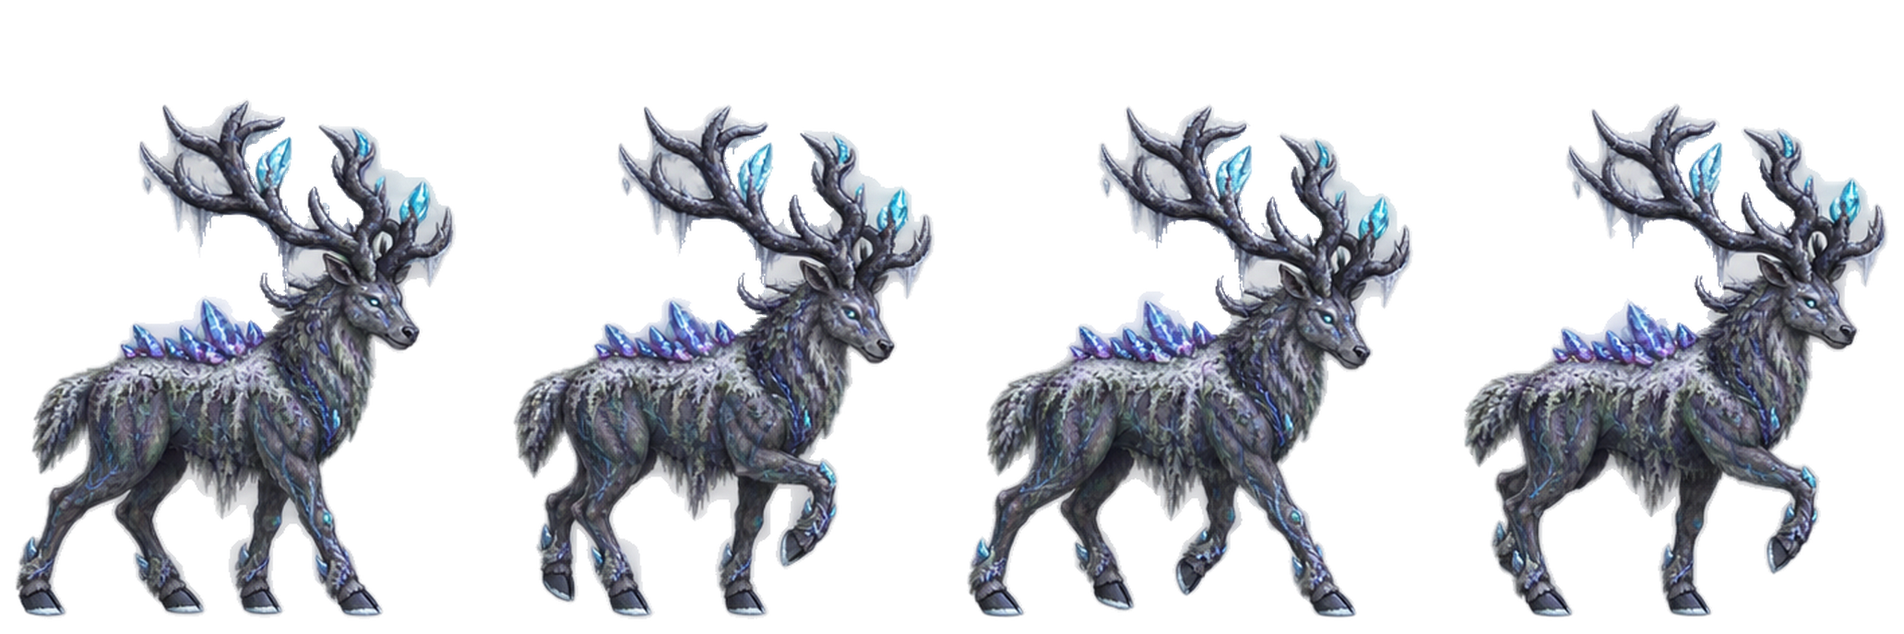
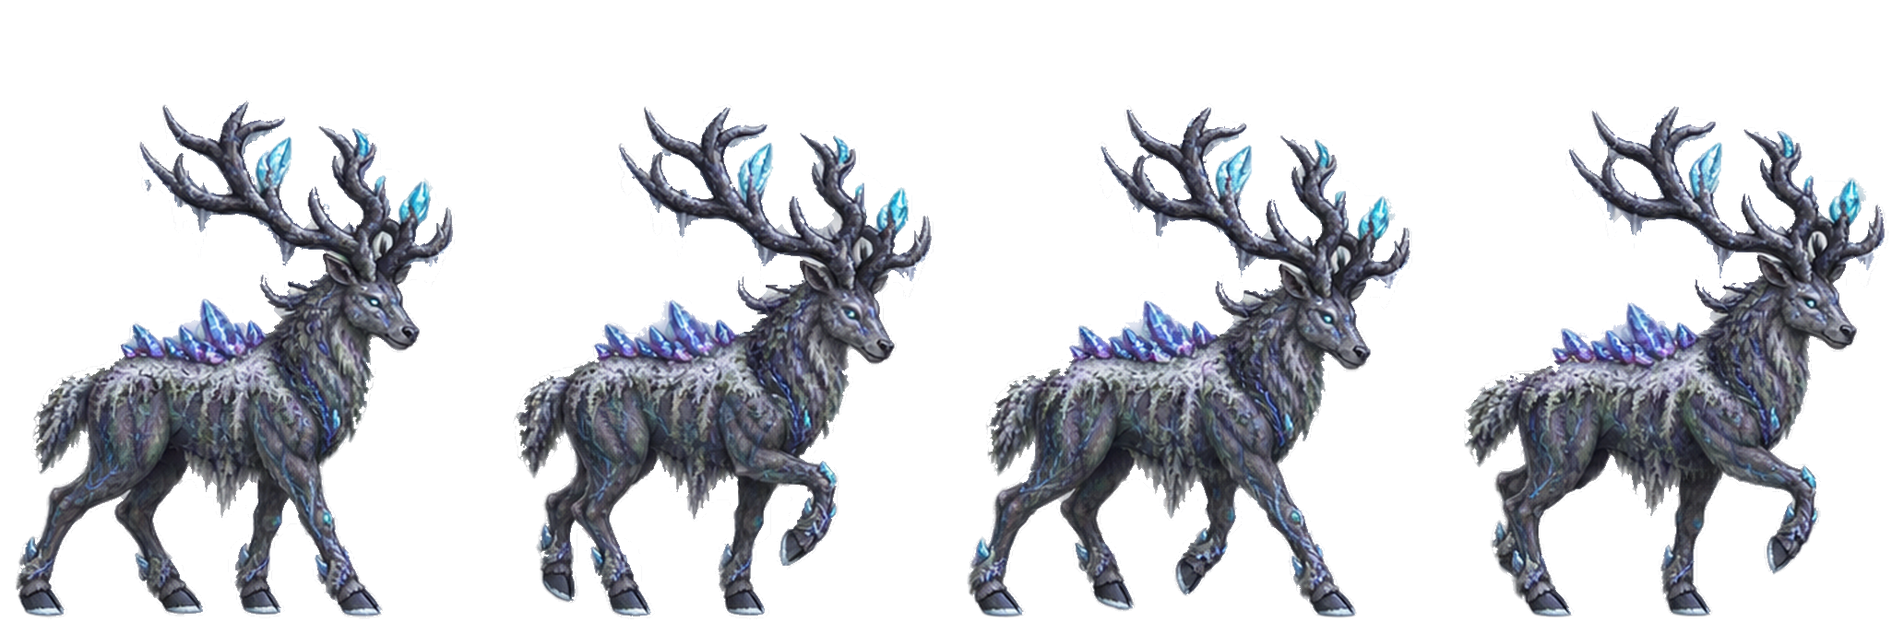
Rounds 352-354: clean enemy sheets and a sprite audit; Clockwarden, Chronarch and Reactor Mauler animated (#129)
* Round 352: clean the Rimeglass Stag and Drowned Heron sheets; sprite audit tool and test

Claude-Session: https://claude.ai/code/session_01XB2RMCaJ1aVVtBjSNk3FhS

* Round 353: the Clockwarden and the Chronarch get their own sheets

Claude-Session: https://claude.ai/code/session_01XB2RMCaJ1aVVtBjSNk3FhS

* Round 354: the Reactor Mauler walks

Claude-Session: https://claude.ai/code/session_01XB2RMCaJ1aVVtBjSNk3FhS

* Round 353: solaris-roster test expects the Chronarch's own sheet

Claude-Session: https://claude.ai/code/session_01XB2RMCaJ1aVVtBjSNk3FhS

* Round 354: drawing Neon Aftermath never writes to the save (seed-stable save round-trip)

Claude-Session: https://claude.ai/code/session_01XB2RMCaJ1aVVtBjSNk3FhS

---------

diff --git a/assets/city-nights.js b/assets/city-nights.js
@@ -29,6 +29,12 @@ function cityNights() {
   n.vault = !!n.vault; n.board = !!n.board;
   return state.cityNights = n;
 }
+// Round 354: drawing reads without writing, so a save looks the same before and after a reload.
+function cityNightsPeek() {
+  if (!state) return null;
+  const n = state.cityNights && typeof state.cityNights === 'object' ? state.cityNights : {};
+  return { caught: Array.isArray(n.caught) ? n.caught : [], breakers: Array.isArray(n.breakers) ? n.breakers : [], vault: !!n.vault, board: !!n.board };
+}
 const cnFrac = k => typeof regionDistanceFrac === 'function' ? regionDistanceFrac(k) : .5;
 // One room in each third of the city (near, middle, far from the Refuge), picked with the journey's seed.
 function cnPickByThirds(keys, salt) {
@@ -65,7 +71,7 @@ function cityWantedFor(spawn) {
   const list = cityWantedRooms(), key = spawn.uid.replace(/^city:/, '').replace(/:\d+$/, ''), i = list.indexOf(key);
   if (i < 0 || !CITY_WANTED[i]) return null;
   const first = roomSpawnsBeforeNights(key).find(s => !s.boss); if (!first || first.uid !== spawn.uid) return null;
-  if (cityNights().caught.includes(CITY_WANTED[i].id) || !wantedContract(CITY_WANTED[i].id)) return null; // Round 347: only once its contract is taken
+  if (cityNightsPeek().caught.includes(CITY_WANTED[i].id) || !wantedContract(CITY_WANTED[i].id)) return null; // Round 347: only once its contract is taken
   return { ...CITY_WANTED[i], room: key };
 }
 const roomSpawnsBeforeNights = roomSpawns;
@@ -117,7 +123,7 @@ const poiNodeBeforeNights = poiNode;
 poiNode = function (p) {
   const node = poiNodeBeforeNights.apply(this, arguments);
   if (!p || !node || !node.classList || !['breaker', 'vault', 'wantedBoard'].includes(p.type)) return node; // Round 350: other worlds' objects never touch the city's save entry
-  const n = cityNights();
+  const n = cityNightsPeek();
   if (p.type === 'breaker' && n && n.breakers.includes(p.index)) { node.classList.add('used'); node.dataset.name = 'Breaker Box · on'; }
   if (p.type === 'vault') { const open = n && n.breakers.length >= 3; node.querySelector('.poi-glyph').textContent = n.vault ? '🔓' : open ? '🔓' : '🔒'; node.dataset.name = 'Afterlight Vault · ' + (n.vault ? 'emptied' : open ? 'powered' : n.breakers.length + '/3 power'); if (n.vault) node.classList.add('used'); }
   if (p.type === 'wantedBoard') { const left = CITY_WANTED.filter(w => !n.caught.includes(w.id)).length, open = wantedAvailable().length; node.dataset.name = 'Wanted Board' + (open ? ' · ' + open + ' contract' + (open > 1 ? 's' : '') : left ? ' · ' + left + ' at large' : ' · all caught');
@@ -144,7 +150,7 @@ roomTag = function (key) {
   const tag = roomTagBeforeNights.apply(this, arguments);
   if (tag || activeRegion !== 'city' || !state) return tag;
   const i = cityWantedRooms().indexOf(key);
-  if (i >= 0 && !cityNights().caught.includes(CITY_WANTED[i].id) && (typeof areaSeen !== 'function' || areaSeen(key))) return { color: '#ff6b5a', label: '☠ ' + CITY_WANTED[i].name };
+  if (i >= 0 && !cityNightsPeek().caught.includes(CITY_WANTED[i].id) && (typeof areaSeen !== 'function' || areaSeen(key))) return { color: '#ff6b5a', label: '☠ ' + CITY_WANTED[i].name };
   return tag;
 };
 // --- Interaction ---
@@ -153,12 +159,12 @@ function cnMenu(title, body, buttons) { poiMenu(title, body, buttons.concat([{ i
 // from the board. A taken contract joins the Quests screen (☠ Wanted, with where the rogue was last seen), and only then
 // does the rogue walk the streets (☠, tougher). Bringing it in completes the contract and pays its reward.
 function wantedContractId(id) { return 'city:wanted:' + id; }
-function wantedContract(id) { const q = typeof ensureQuests === 'function' ? ensureQuests() : null; return q && q.taken ? q.taken[wantedContractId(id)] || null : null; }
+function wantedContract(id) { const q = state && state.quests; return q && q.taken && typeof q.taken === 'object' ? q.taken[wantedContractId(id)] || null : null; } // read-only (Round 354)
 function wantedWhere(i) { const key = cityWantedRooms()[i]; return key && rooms[key] ? rooms[key].name : 'somewhere in the city'; }
 function wantedRewardText(w) { return '◇' + w.shards + ' + ' + w.xp + ' XP' + (w.crystal ? ' + an Upgrade Crystal' : ''); }
-function wantedAvailable() { const n = cityNights(); return CITY_WANTED.filter(w => !n.caught.includes(w.id) && !wantedContract(w.id)); }
+function wantedAvailable() { const n = cityNightsPeek(); return CITY_WANTED.filter(w => !n.caught.includes(w.id) && !wantedContract(w.id)); }
 function takeWantedContract(i) {
-  const w = CITY_WANTED[i], n = cityNights(); if (!w || n.caught.includes(w.id) || wantedContract(w.id)) return null;
+  const w = CITY_WANTED[i], n = cityNightsPeek(); if (!w || n.caught.includes(w.id) || wantedContract(w.id)) return null;
   const q = { id: wantedContractId(w.id), kind: 'wanted', world: 'city', target: 'wanted:' + w.id, need: 1, have: 0, xp: w.xp,
     text: 'Bring in ' + w.name + ' (last seen: ' + wantedWhere(i) + ')', rewardText: wantedRewardText(w) };
   ensureQuests().taken[q.id] = q; save(); toast('☠ Contract taken: ' + w.name + '. Look for the ☠ in ' + wantedWhere(i) + '.');

diff --git a/index.html b/index.html
@@ -97,7 +97,7 @@
 .map-surface{position:absolute;left:50%;top:50%;width:880px;height:560px;transform-origin:center}.map-surface .map-room{width:102px;min-height:54px;font-size:10px}.map-surface .map-room .map-status{display:block}.minimap-grid{width:126px;height:82px}
 .defeat-summary{max-width:680px;margin:auto}.defeat-summary h2{color:#ffb5ac}.defeat-loss{padding:16px;margin:16px 0;border:1px solid #d7766d;border-radius:10px;background:#351d25}.defeat-card{display:flex;gap:16px;align-items:center}.defeat-card img{width:88px;height:88px;object-fit:cover;border-radius:8px}.defeat-card p{font:13px/1.5 system-ui;margin:6px 0}.defeat-summary button{width:100%;min-height:48px}.defeat-summary .panel p{line-height:1.6}
 .copies-overlay{z-index:120}.copies-modal{width:min(640px,96vw)}.copies-list{display:flex;flex-direction:column;gap:8px;margin:10px 0}.copy-row{display:flex;align-items:center;gap:12px;padding:8px 10px;border:1px solid #4d6a80;border-radius:10px;background:#0c1624}.copy-row.in-deck{border-color:#64dce7;box-shadow:0 0 0 1px #64dce755}.copy-row.soul{background:linear-gradient(90deg,#1d1638,#0c1624)}.copy-art{width:54px;height:54px;object-fit:cover;border-radius:6px;border:1px solid #8cb8bf55;flex:none}.copy-info{flex:1;display:flex;flex-direction:column;gap:4px;min-width:0}.copy-info b{font:700 13px system-ui}.copy-info small{font:11px system-ui;color:#9fb6c8}.copy-mastery{display:block;height:6px;border-radius:3px;background:#1e2f40;overflow:hidden}.copy-mastery i{display:block;height:100%;background:linear-gradient(90deg,#64dce7,#f2c94c)}.copy-tag{align-self:flex-start;font:700 10px system-ui;color:#0b1422;background:#64dce7;border-radius:999px;padding:1px 8px}.copy-actions{display:flex;flex-direction:column;gap:5px;flex:none}.copy-actions button{font-size:12px;padding:5px 9px}@media(max-width:560px){.copy-row{flex-wrap:wrap}.copy-actions{flex-direction:row;width:100%}}button.stack-count-badge{cursor:pointer}.stack-count-badge{position:absolute;right:-8px;top:-8px;z-index:4;min-width:30px;height:30px;padding:0 6px;border-radius:999px;display:grid;place-items:center;font:800 14px system-ui;color:#1b1206;background:radial-gradient(circle at 35% 30%,#fff3c4,#f2c94c 60%,#b27d10);border:2px solid #fff4c8;box-shadow:0 2px 8px #000a}.card-wrap{position:relative}.stack-info{margin:4px 2px 0;font:11px system-ui;color:#b9c9d6}.deck-slot .stack-count{color:#f2c94c}
-</style><link rel="stylesheet" href="assets/mobile-crystals.css?v=round185"><link rel="stylesheet" href="assets/talents.css?v=round185"><link rel="stylesheet" href="assets/aether-deck.css?v=round185"><link rel="stylesheet" href="assets/battle-hud.css?v=round200"></head><body><link rel="stylesheet" href="assets/layout-polish.css?v=round348"><link rel="stylesheet" href="assets/enemy-sizes.css?v=round351">
+</style><link rel="stylesheet" href="assets/mobile-crystals.css?v=round185"><link rel="stylesheet" href="assets/talents.css?v=round185"><link rel="stylesheet" href="assets/aether-deck.css?v=round185"><link rel="stylesheet" href="assets/battle-hud.css?v=round200"></head><body><link rel="stylesheet" href="assets/layout-polish.css?v=round348"><link rel="stylesheet" href="assets/enemy-sizes.css?v=round354">
 <div id="game">
  <div id="world"></div>
  <div id="hud"></div>
@@ -553,7 +553,7 @@ if(localStorage.getItem(SAVE_KEY))$('resumeBtn').classList.remove('hidden');
 addEventListener('resize',()=>{fitWorld();fitMap();renderTalentConnectors()});fitWorld();
 requestAnimationFrame(loop);
 </script>
-<script src="assets/elaris-wildlife.js?v=round349"></script>
+<script src="assets/elaris-wildlife.js?v=round354"></script>
 <script src="assets/solaris-data.js?v=round232"></script>
 <script src="assets/expansion.js?v=round340"></script>
 <script src="assets/encounter-depth.js?v=round280"></script>
@@ -571,7 +571,7 @@ requestAnimationFrame(loop);
 <script src="assets/exploration.js?v=round290"></script>
 <script src="assets/neon-world.js?v=round339"></script>
 <script src="assets/solaris.js?v=round197"></script>
-<script src="assets/chronospire.js?v=round349"></script>
+<script src="assets/chronospire.js?v=round353"></script>
 <script src="assets/sky-data.js?v=round235"></script>
 <script src="assets/wilds-data.js?v=round232"></script>
 <script src="assets/vespera-data.js?v=round232"></script>
@@ -596,7 +596,7 @@ requestAnimationFrame(loop);
 <script src="assets/npc-greetings.js?v=round281"></script>
 <script src="assets/bounty-plan.js?v=round286"></script>
 <script src="assets/quests.js?v=round347"></script>
-<script src="assets/city-nights.js?v=round350"></script>
+<script src="assets/city-nights.js?v=round354"></script>
 <script src="assets/world-relays.js?v=round350"></script>
 <script src="assets/touch-controls.js?v=round275"></script>
 <script src="assets/map-terrain.js?v=round343"></script>

diff --git a/assets/elaris-wildlife.js b/assets/elaris-wildlife.js
@@ -31,6 +31,8 @@ const WILDLIFE_ART={
  tempestColossus:{name:'The Tempest Colossus',sheet:'vespera/tempest-colossus',cycle:'.8s',big:true},
  gearhound:{name:'Gearhound',sheet:'chronospire/gearhound',cycle:'.8s'},
  tickMoth:{name:'Tick Moth',sheet:'chronospire/tick-moth',cycle:'.8s'},
+ clockwardenArt:{name:'The Clockwarden',sheet:'chronospire/clockwarden',cycle:'.8s'}, // Round 353: Chronospire's mini-boss hovers on its own sheet (drawn from the Crown Observer)
+ chronarchArt:{name:'The Chronarch',sheet:'chronospire/chronarch',cycle:'.8s',big:true}, // Round 353: Chronospire's boss walks on its own sheet (drawn from the Bloom Tyrant)
  cogMauler:{name:'Cog Mauler',sheet:'chronospire/cog-mauler',cycle:'.8s'}, // Round 349: Chronospire's own mauler (eight-frame walk drawn from the Reactor Mauler)
  pendulumStag:{name:'Pendulum Stag',sheet:'chronospire/pendulum-stag',cycle:'.8s'}, // Round 346: Chronospire's own stag (eight-frame walk drawn from the Blight Antler)
  hourglassHeron:{name:'Hourglass Heron',sheet:'chronospire/hourglass-heron',cycle:'.8s'}, // Round 346: Chronospire's own heron (eight-frame walk drawn from the Drowned Heron) // Round 342: Chronospire's own clockwork moth (an eight-frame flight drawn from the Storm Moth) // Round 341: Chronospire's own clockwork fox (an eight-frame walk drawn from the Cinder Fox) // Round 340: Vespera's boss in its own storm form (an eight-frame walk drawn from the Bloom Tyrant) // Round 339: Vespera's mini-boss in its own storm armor (an eight-frame walk drawn from the Briar Sentinel) // Round 338: Vespera's own storm mauler (an eight-frame walk drawn from the Reactor Mauler) // Round 336: Vespera's own storm wisp (an eight-frame glide drawn from the Data Wisp) // Round 335: Vespera's own frost stag (an eight-frame walk drawn from the Blight Antler) // Round 334: Vespera's own storm wraith (an eight-frame glide drawn from the Phase Shade) // Round 333: Vespera's own storm-coast heron (an eight-frame walk drawn from the Drowned Heron) // Round 332: Vespera's own storm moth (an eight-frame flight drawn from the Storm Moth), no longer the recolored Storm Moth // Round 305: Vespera's own storm fox (the owner's eight-frame walk), no longer the recolored Cinder Fox
@@ -46,8 +48,10 @@ const WILDLIFE_ART={
  burrower:{name:'Tunnel Borehound',sheet:'city/tunnel-borehound',cycle:'.8s'},
  // Round 264: the Phase Shade glides (four of the owner's eight frames; no battle poses yet).
  shade:{name:'Phase Shade',sheet:'city/phase-shade',cycle:'.8s'},
- // Round 266: the Crown Observer hovers (four of the owner's eight frames; no battle poses yet). The Clockwarden borrows it.
+ // Round 266: the Crown Observer hovers (four of the owner's eight frames; no battle poses yet).
  crownEye:{name:'Crown Observer',sheet:'city/crown-observer',cycle:'.8s'},
+ // Round 354: the Reactor Mauler walks (four of the owner's eight frames; it had a single still picture, clipped at both sides).
+ forgeBeast:{name:'Reactor Mauler',sheet:'city/reactor-mauler',cycle:'.8s'},
  // Round 267: Neon Aftermath's final boss, the Thorn Warden, strides (four of the owner's eight side-walk frames).
  thornWarden:{name:'Thorn Warden',sheet:'city/thorn-warden',cycle:'1.1s'},
  // Round 268: the mini-boss Lunar Enforcer glides (four of the owner's eight frames; no battle poses yet).
@@ -60,7 +64,7 @@ const cityMonsterArt=monsterArt;
 // Round 196: a sheet name with a folder ('sky/zenith-roc') is read from assets/monsters/<folder>/;
 // big:true draws it in the larger boss box.
 // Round 200: bump SPRITE_VERSION when sheets are re-cut, so browsers fetch the new images.
-const SPRITE_VERSION='349';
+const SPRITE_VERSION='354';
 function wildlifeSheetUrl(sheet){return 'assets/monsters/'+(sheet.includes('/')?sheet:'elaris/'+sheet)+'.png?v='+SPRITE_VERSION}
 monsterArt=function(id){const animal=ELARIS_WILDLIFE[id]||WILDLIFE_ART[id];if(!animal)return cityMonsterArt(id);return '<span class="monster-sprite wildlife-sprite'+(animal.big?' bloom-tyrant':'')+'" role="img" aria-label="'+animal.name+'" style="background-image:url('+wildlifeSheetUrl(animal.sheet)+');--wildlife-cycle:'+animal.cycle+'"></span>'};
 // Round 249: a boss node's sprite box was square (142px, sized for Neon Aftermath's boss pictures), which

diff --git a/assets/enemy-sizes.css b/assets/enemy-sizes.css
@@ -1,4 +1,6 @@
 /* Generated by tools/enemy_sizes.py (Round 351): each creature sheet scaled on the map toward one painted size. */
+#world .enemy-node .wildlife-sprite[style*="/chronospire/chronarch.png"]{--enemy-fit:0.861} /* painted 0.639 */
+#world .enemy-node .wildlife-sprite[style*="/chronospire/clockwarden.png"]{--enemy-fit:1.117} /* painted 0.492 */
 #world .enemy-node .wildlife-sprite[style*="/chronospire/gearhound.png"]{--enemy-fit:1.141} /* painted 0.482 */
 #world .enemy-node .wildlife-sprite[style*="/chronospire/tick-moth.png"]{--enemy-fit:1.365} /* painted 0.403 */
 #world .enemy-node .wildlife-sprite[style*="/city/briar-sentinel-walk.png"]{--enemy-fit:0.874} /* painted 0.630 */
@@ -8,13 +10,14 @@
 #world .enemy-node .wildlife-sprite[style*="/city/ember-jackal.png"]{--enemy-fit:1.11} /* painted 0.495 */
 #world .enemy-node .wildlife-sprite[style*="/city/lunar-enforcer.png"]{--enemy-fit:1.021} /* painted 0.539 */
 #world .enemy-node .wildlife-sprite[style*="/city/phase-shade.png"]{--enemy-fit:1.05} /* painted 0.524 */
+#world .enemy-node .wildlife-sprite[style*="/city/reactor-mauler.png"]{--enemy-fit:0.85} /* painted 0.656 */
 #world .enemy-node .wildlife-sprite[style*="/city/thorn-warden.png"]{--enemy-fit:0.853} /* painted 0.645 */
 #world .enemy-node .wildlife-sprite[style*="/city/tunnel-borehound.png"]{--enemy-fit:1.155} /* painted 0.476 */
 #world .enemy-node .wildlife-sprite[style*="/elaris/blight-antler.png"]{--enemy-fit:0.981} /* painted 0.560 */
 #world .enemy-node .wildlife-sprite[style*="/elaris/bloom-tyrant.png"]{--enemy-fit:0.898} /* painted 0.613 */
 #world .enemy-node .wildlife-sprite[style*="/elaris/cinder-fox.png"]{--enemy-fit:1.083} /* painted 0.508 */
 #world .enemy-node .wildlife-sprite[style*="/elaris/cistern-warden.png"]{--enemy-fit:0.935} /* painted 0.588 */
-#world .enemy-node .wildlife-sprite[style*="/elaris/drowned-heron.png"]{--enemy-fit:1.095} /* painted 0.502 */
+#world .enemy-node .wildlife-sprite[style*="/elaris/drowned-heron.png"]{--enemy-fit:1.096} /* painted 0.502 */
 #world .enemy-node .wildlife-sprite[style*="/elaris/dune-scorpion.png"]{--enemy-fit:1.1} /* painted 0.500 */
 #world .enemy-node .wildlife-sprite[style*="/elaris/dust-devil.png"]{--enemy-fit:1.11} /* painted 0.495 */
 #world .enemy-node .wildlife-sprite[style*="/elaris/mirage-ibis.png"]{--enemy-fit:1.043} /* painted 0.527 */
@@ -35,7 +38,7 @@
 #world .enemy-node .wildlife-sprite[style*="/vespera/brinewing-heron.png"]{--enemy-fit:1.205} /* painted 0.457 */
 #world .enemy-node .wildlife-sprite[style*="/vespera/ion-shade.png"]{--enemy-fit:1.097} /* painted 0.502 */
 #world .enemy-node .wildlife-sprite[style*="/vespera/prism-thornling.png"]{--enemy-fit:0.977} /* painted 0.563 */
-#world .enemy-node .wildlife-sprite[style*="/vespera/rimeglass-stag.png"]{--enemy-fit:0.95} /* painted 0.579 */
+#world .enemy-node .wildlife-sprite[style*="/vespera/rimeglass-stag.png"]{--enemy-fit:1.015} /* painted 0.542 */
 #world .enemy-node .wildlife-sprite[style*="/vespera/static-fox.png"]{--enemy-fit:1.138} /* painted 0.483 */
 #world .enemy-node .wildlife-sprite[style*="/vespera/tempest-colossus.png"]{--enemy-fit:1.119} /* painted 0.492 */
 #world .enemy-node .wildlife-sprite[style*="/vespera/tempest-moth.png"]{--enemy-fit:1.12} /* painted 0.491 */

diff --git a/assets/chronospire.js b/assets/chronospire.js
@@ -22,9 +22,9 @@ const CHRONO_ENEMIES = {
   chronoStag:   { name: 'Pendulum Stag', icon: '◆', hp: 58, attack: 11, armor: 2, element: 'earth', art: 'pendulumStag', tint: 'none' },
   chronoWisp:   { name: 'Rust Wisp', icon: '✧', hp: 60, attack: 11, armor: 2, element: 'water', art: 'cryptWisp', tint: CHRONO_TINT },
   chronoMauler: { name: 'Cog Mauler', icon: '♨', hp: 62, attack: 12, armor: 2, element: 'fire', art: 'cogMauler', tint: 'none' },
-  clockwarden:  { name: 'The Clockwarden', icon: '🕰', hp: 90, attack: 12, armor: 4, boss: true, miniBoss: true, element: 'earth', art: 'crownEye', tint: CHRONO_TINT },
+  clockwarden:  { name: 'The Clockwarden', icon: '🕰', hp: 90, attack: 12, armor: 4, boss: true, miniBoss: true, element: 'earth', art: 'clockwardenArt', tint: 'none' },
   paradoxTwin:  { name: 'The Paradox Twin', icon: '♊', hp: 86, attack: 13, armor: 3, boss: true, miniBoss: true, element: 'air', art: 'shade', tint: 'sepia(.6) saturate(2) hue-rotate(160deg) brightness(1.1)' },
-  chronarch:    { name: 'The Chronarch', icon: '⌛', hp: 160, attack: 12, armor: 3, boss: true, element: 'water', shift: ['water', 'fire'], shiftEvery: 4, art: 'forestTyrant', tint: CHRONO_TINT }
+  chronarch:    { name: 'The Chronarch', icon: '⌛', hp: 160, attack: 12, armor: 3, boss: true, element: 'water', shift: ['water', 'fire'], shiftEvery: 4, art: 'chronarchArt', tint: 'none' }
 };
 Object.assign(enemies, CHRONO_ENEMIES);
 Object.assign(BALANCE.perEnemy, { clockwarden: { hp: 1.29 }, paradoxTwin: { hp: 1.33 }, chronarch: { hp: 0.693 }, chronoMauler: { hp: .88 } }); // Round 177: tuned as world 6; Round 181: after the tile rebuild; Round 183: with gear worn; Round 226: after ⚔ Pressure

diff --git a/tools/sprite_audit.py b/tools/sprite_audit.py
@@ -1,0 +1,77 @@
+# Round 352 (owner: "check all enemies to make sure their animations are clean and there are no artifacts").
+# Checks every four-frame creature sheet in assets/monsters for:
+#   - stray fragments: small pieces near a frame's side edge, apart from the creature (bits of a neighbouring frame);
+#   - art touching a frame edge (it would be clipped, or bleed into the next frame);
+#   - keying fringe: green or magenta tinted see-through edge pixels;
+#   - pale matte: smooth, unsaturated light patches of leftover background, 600px or more, touching the transparency.
+# Usage: python3 tools/sprite_audit.py   (prints one line per problem; exit code 1 if any)
+# Deliberate effects are listed in ALLOW (orbiting pebbles, steam puffs, a mirage fringe).
+import glob, os, sys
+import numpy as np
+from PIL import Image
+from scipy import ndimage
+
+ROOT = os.path.join(os.path.dirname(os.path.abspath(__file__)), '..')
+ALLOW = {
+    ('elaris/dust-devil.png', 'fragment'),       # pebbles orbiting the whirlwind
+    ('elaris/cistern-warden.png', 'fragment'),   # steam puffs from its valves
+    ('elaris/bloom-tyrant.png', 'fragment'),     # a 3px petal
+    ('elaris/bloom-tyrant.png', 'fringe'),       # violet blossoms and green leaves at its edges
+    ('elaris/blight-antler.png', 'fringe'),      # green moss and crystals along its back
+    ('elaris/mirage-ibis.png', 'fringe'),        # its deliberate pink mirage fringe (Round 270)
+}
+
+def frames(path):
+    im = Image.open(path); W, H = im.size
+    if abs(W / 4 - H * 0.75) > H * 0.05:
+        return None
+    a = np.array(im.convert('RGBA')).astype(int); fw = W // 4
+    return [a[:, i * fw:(i + 1) * fw] for i in range(4)]
+
+def audit(path):
+    fr = frames(path)
+    if fr is None:
+        return []
+    out = []
+    for i, f in enumerate(fr):
+        al = f[..., 3]; h, w = al.shape
+        lab, n = ndimage.label(al > 30, structure=np.ones((3, 3)))
+        if not n:
+            out.append(('empty', 'frame %d is empty' % i)); continue
+        sz = ndimage.sum(np.ones_like(al), lab, range(1, n + 1)); main = lab == (np.argmax(sz) + 1)
+        dist = ndimage.distance_transform_edt(~main)
+        for j, s in enumerate(sz):
+            if s > sz.max() * 0.05:
+                continue
+            ys, xs = np.nonzero(lab == j + 1)
+            if (xs.min() < w * 0.07 or xs.max() > w * 0.93) and dist[ys, xs].min() > 12:
+                out.append(('fragment', 'frame %d: %dpx piece at x %d-%d, apart from the creature' % (i, s, xs.min(), xs.max())))
+        e = np.concatenate([al[0], al[-1], al[:, 0], al[:, -1]])
+        if (e > 40).sum() > 3:
+            out.append(('edge', 'frame %d touches its edge (%d px)' % (i, (e > 40).sum())))
+        r, g, b = f[..., 0], f[..., 1], f[..., 2]; soft = (al > 20) & (al < 230)
+        green = (soft & (g > r + 40) & (g > b + 40)).sum(); mag = (soft & (r > g + 60) & (b > g + 60)).sum()
+        if green > 300 or mag > 300:
+            out.append(('fringe', 'frame %d: %d green / %d magenta see-through edge pixels' % (i, green, mag)))
+        rgb = f[..., :3].astype(float); lum = rgb.mean(-1); sat = rgb.max(-1) - rgb.min(-1)
+        m = ndimage.uniform_filter(lum, 5); m2 = ndimage.uniform_filter(lum * lum, 5); std = np.sqrt(np.clip(m2 - m * m, 0, None))
+        pale = (al > 60) & (sat < 26) & (lum > 160) & (std < 10)
+        plab, pn = ndimage.label(pale); near = ndimage.binary_dilation(al < 40, iterations=2)
+        for j in range(1, pn + 1):
+            reg = plab == j
+            if reg.sum() >= 600 and (reg & near).any():
+                out.append(('matte', 'frame %d: %dpx smooth pale patch on the outline' % (i, reg.sum())))
+    return out
+
+if __name__ == '__main__':
+    bad = 0
+    for p in sorted(glob.glob(os.path.join(ROOT, 'assets/monsters/**/*.png'), recursive=True)):
+        rel = os.path.relpath(p, os.path.join(ROOT, 'assets/monsters')).replace(os.sep, '/')
+        if '/src/' in '/' + rel or 'preview' in rel:
+            continue
+        for kind, msg in audit(p):
+            if (rel, kind) in ALLOW:
+                continue
+            print('%s: %s' % (rel, msg)); bad += 1
+    print('sprite audit: %d problem(s)' % bad)
+    sys.exit(1 if bad else 0)

diff --git a/CHANGES.md b/CHANGES.md
@@ -3496,6 +3496,54 @@ Playtest of Neon Aftermath's three relics (Moon Lens 5,4; Ember Sigil 5,7; Briar
 - Talent descriptions list the per-rank values. Tests updated: round76, chronospire,
   talent-matrix, card-variety, plating-armor.
 
+## Round 354: the Reactor Mauler walks
+
+- The owner's eight-frame walk for Neon Aftermath's **Reactor Mauler**: a furnace-bellied brass brute with three
+  smokestacks and a vent-grille face. Until now it was the only regular enemy on a single still picture, which was
+  clipped at both sides (found in Round 352).
+- The draft was one 2048px image on green, eight frames of about 235px each on a 256px grid. Each frame was keyed
+  off green, then cut by that grid, which keeps the draft's own positions (the face vents line up within 2px).
+  Frames 1, 3, 5 and 7 were enlarged about 2× into `assets/monsters/city/reactor-mauler.png` and padded. The
+  eight-frame strip is kept in `assets/monsters/city/src/reactor-mauler-walk8.png`.
+- `WILDLIFE_ART.forgeBeast`. `SPRITE_VERSION` is now '354'; `enemy-sizes.css` was regenerated (×0.85). It passes
+  `tools/sprite_audit.py`. `tests/elaris-wildlife.test.cjs` now expects the walking sheet.
+- The Crown Sentinel boss still reuses the Crown Observer's still picture.
+- Fix: drawing Neon Aftermath could write to the save. The Wanted Board, the vault, a rogue's patrol and its map marker
+  read the city's entry through `cityNights()`, which creates it, and `ensureQuests()`. Since Round 350 those objects
+  stand in ordinary rooms, so with some seeds `save-roundtrip` saw a save change on reload. Drawing now reads through
+  the read-only `cityNightsPeek()` and `state.quests`. New `tests/save-stable.test.cjs` reloads 12 seeds in three
+  worlds.
+
+## Round 353: the Clockwarden and the Chronarch get their own sheets
+
+- The owner's eight-frame drafts for Chronospire's mini-boss and boss. Until now both borrowed other creatures' art,
+  recoloured.
+  - **The Clockwarden** (mini-boss) hovers: a brass clock-faced eye with an amber iris and ring, drawn from the Crown
+    Observer (`assets/monsters/chronospire/clockwarden.png`, `WILDLIFE_ART.clockwardenArt`).
+  - **The Chronarch** (boss) walks: a golden-canopied stag with copper flowers and an amber heart, drawn from the Bloom
+    Tyrant (`chronarch.png`, `chronarchArt`, `big: true`).
+- Each was built the usual way: frames 1, 3, 5 and 7, cleaned and padded. The strips are kept in `src/`. Both are
+  `tint: 'none'`.
+- `SPRITE_VERSION` is now '353'. Both pass `tools/sprite_audit.py`, and `enemy-sizes.css` was regenerated.
+
+## Round 352: every enemy animation checked; two sheets cleaned; a sprite audit
+
+- Owner: "check all enemies to make sure their animations are clean and there are no artifacts".
+- I reviewed all 47 creature sheets frame by frame on dark and light backgrounds, after automated checks for specks,
+  clipped edges, keying fringe, haze and frame-to-frame jumps.
+- Two sheets had artifacts:
+  - **Rimeglass Stag** (Vespera): flat light-grey patches of the draft's background sat between the antler tines,
+    under the belly and between the legs, in every frame (Round 335 removed only the brightest blob). Removed by growing
+    the transparency into smooth, unsaturated grey (keeping the textured frost fur), clearing enclosed pale patches of
+    400px or more, and peeling the pale fringe three times.
+  - **Drowned Heron** (Elaris): frame 2 carried two slivers of a neighbouring frame's tail at its right edge. Removed.
+- Everything else is clean. The flagged bits are deliberate: the Phase Shade's glitch pixels, the Dust Devil's pebbles,
+  the Cistern Warden's steam, the Mirage Ibis's pink mirage fringe and the moths' and roc's wing-beat bob.
+- The city's **Reactor Mauler** still uses the old single picture, which is clipped at both sides and has no walk.
+  The Crown Sentinel boss reuses the Crown Observer picture, also without a walk. Both need new art.
+- New `tools/sprite_audit.py` checks every sheet for these problems, with deliberate effects listed in `ALLOW`.
+  `tests/sprite-audit.test.cjs` runs it. `SPRITE_VERSION` is now '352'; `enemy-sizes.css` was regenerated.
+
 ## Round 351: enemies drawn at one size in every world
 
 - Owner: "can you standardize enemy size across all worlds? similar in what we see in neon city would be good for all maps".

diff --git a/tools/art-refresh/object-prompts.md b/tools/art-refresh/object-prompts.md
@@ -117,15 +117,15 @@ Shared on purpose, so optional (see section 3):
 | Sheet | Borrowed by |
 |---|---|
 | `city/briar-sentinel-walk` | Brass Sentry (Chronospire); The Arc Sentinel has its own since Round 339 |
-| `city/crown-observer` | The Clockwarden (Chronospire) |
+| `city/crown-observer` | none since Round 353 (the Clockwarden has its own) |
 | `city/data-wisp` | Rust Wisp (Chronospire); Arc Wisp has its own since Round 336 |
 | `city/phase-shade` | The Resonant Phantom (Vespera mini-boss), Lag Wraith, The Paradox Twin (Chronospire) |
 | `elaris/blight-antler` | none since Round 346 (the Pendulum Stag has its own) |
-| `elaris/bloom-tyrant` | The Chronarch (Chronospire boss); The Tempest Colossus has its own since Round 340 |
+| `elaris/bloom-tyrant` | none since Round 353 (the Tempest Colossus since Round 340, the Chronarch since Round 353) |
 | `elaris/cinder-fox` | none since Round 341 (the Gearhound has its own) |
 | `elaris/drowned-heron` | The Tidebound Warden (Elaris mini-boss, not recolored); the Hourglass Heron has its own since Round 346 |
 | `elaris/storm-moth` | The Gale Sovereign (Elaris mini-boss, not recolored); the Tick Moth has its own since Round 342 |
-| `reactor-mauler` | none since Round 349 (Thunder Mauler since Round 338, Cog Mauler since Round 349) |
+| `reactor-mauler` | retired in Round 354: the city's Reactor Mauler walks on `city/reactor-mauler.png`; the Thunder and Cog Maulers have their own |
 
 ## 5. Nexus Waypoints, one per world (owner request, Round 339)
 

diff --git a/CLAUDE.md b/CLAUDE.md
@@ -4,7 +4,7 @@ Aethercede is a browser card-battler/exploration game in vanilla JS with no
 build step. Open `index.html` directly. `compendium.html` is the card
 gallery; `arena.html` is a standalone prototype and is left untouched.
 
-**Read `CHANGES.md` first.** Every round of work (Round 1 to Round 351) is
+**Read `CHANGES.md` first.** Every round of work (Round 1 to Round 354) is
 logged there with its reasoning. Add a new `## Round N:` entry for each
 change set.
 
@@ -119,7 +119,8 @@ change set.
   filled silhouette (Round 234). A creature with battle poses and a walk lists `poses: { attack, hurt, walk }` (`sun-revenant.js`).
   Creature art faces right (the map flips it when walking left, battle flips it to face the player); mirror
   left-facing art per frame (Round 257). Round 351: after adding or re-cutting sheets, run `python3 tools/enemy_sizes.py`
-  (it writes `assets/enemy-sizes.css`, which scales each creature on the map toward one painted size).
+  (it writes `assets/enemy-sizes.css`, which scales each creature on the map toward one painted size), then
+  `python3 tools/sprite_audit.py` (Round 352: stray fragments, clipped edges, keying fringe, pale matte).
 - **Card art** comes from `cardArtPath()` in `assets/cards.js`. The refreshed
   WebP illustrations are listed in `refreshedCardArt`. Status and pending
   prompts: `assets/cards/art-refresh.md` and `tools/art-refresh/`. When art
